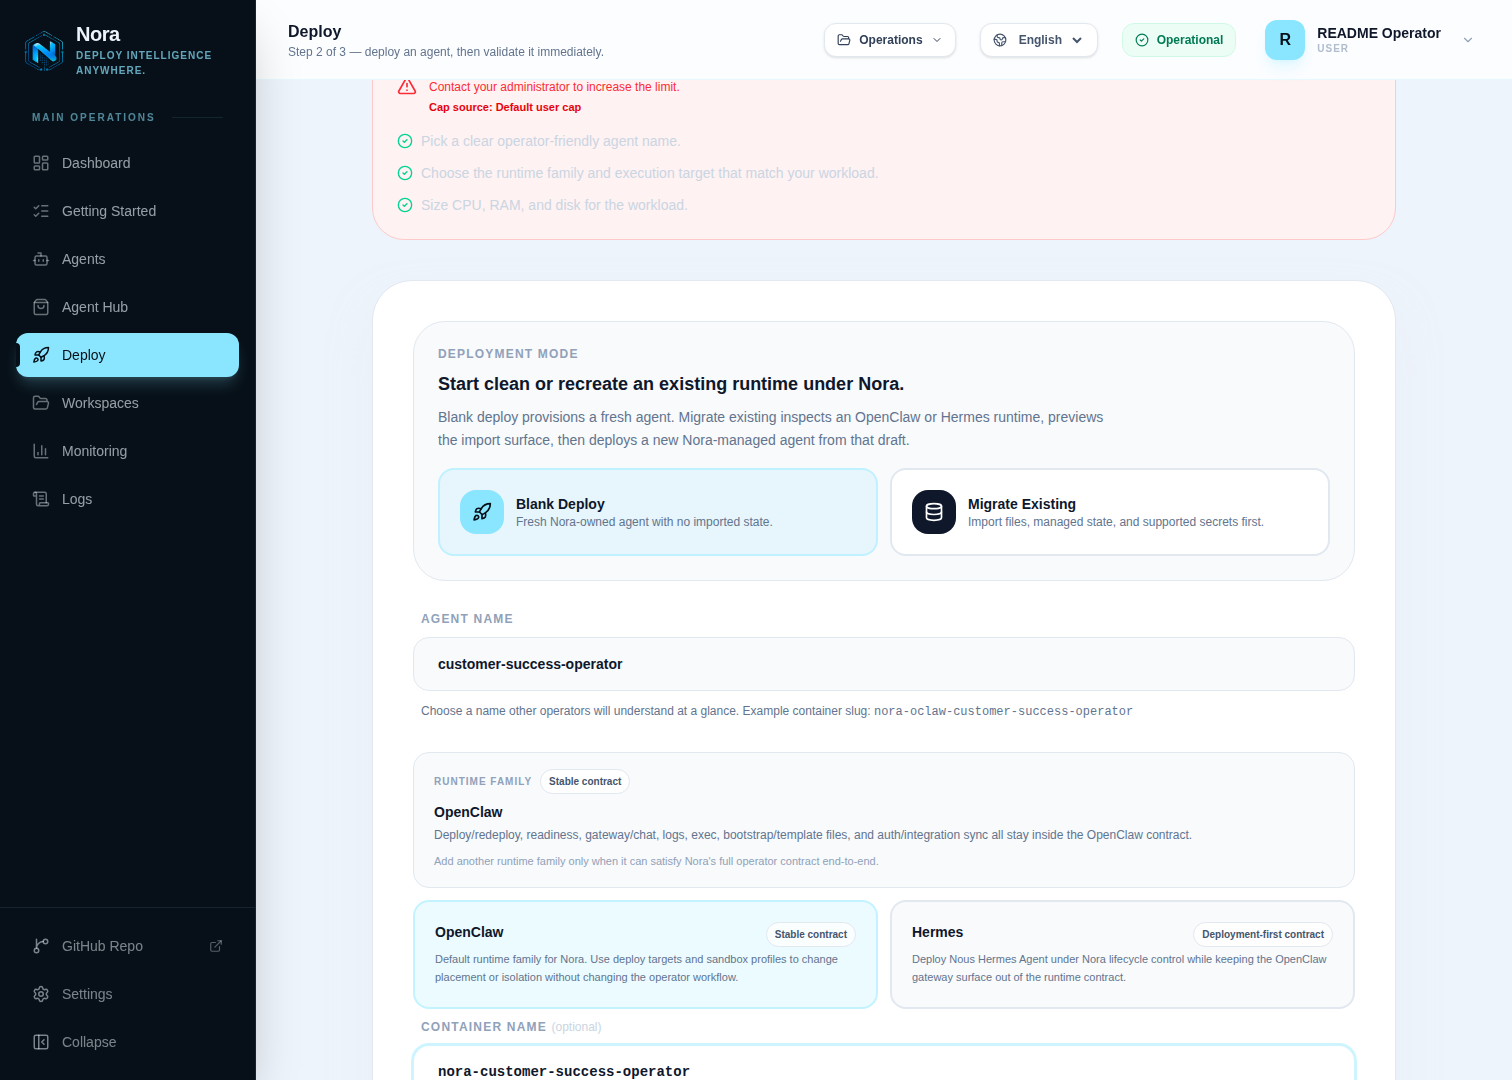
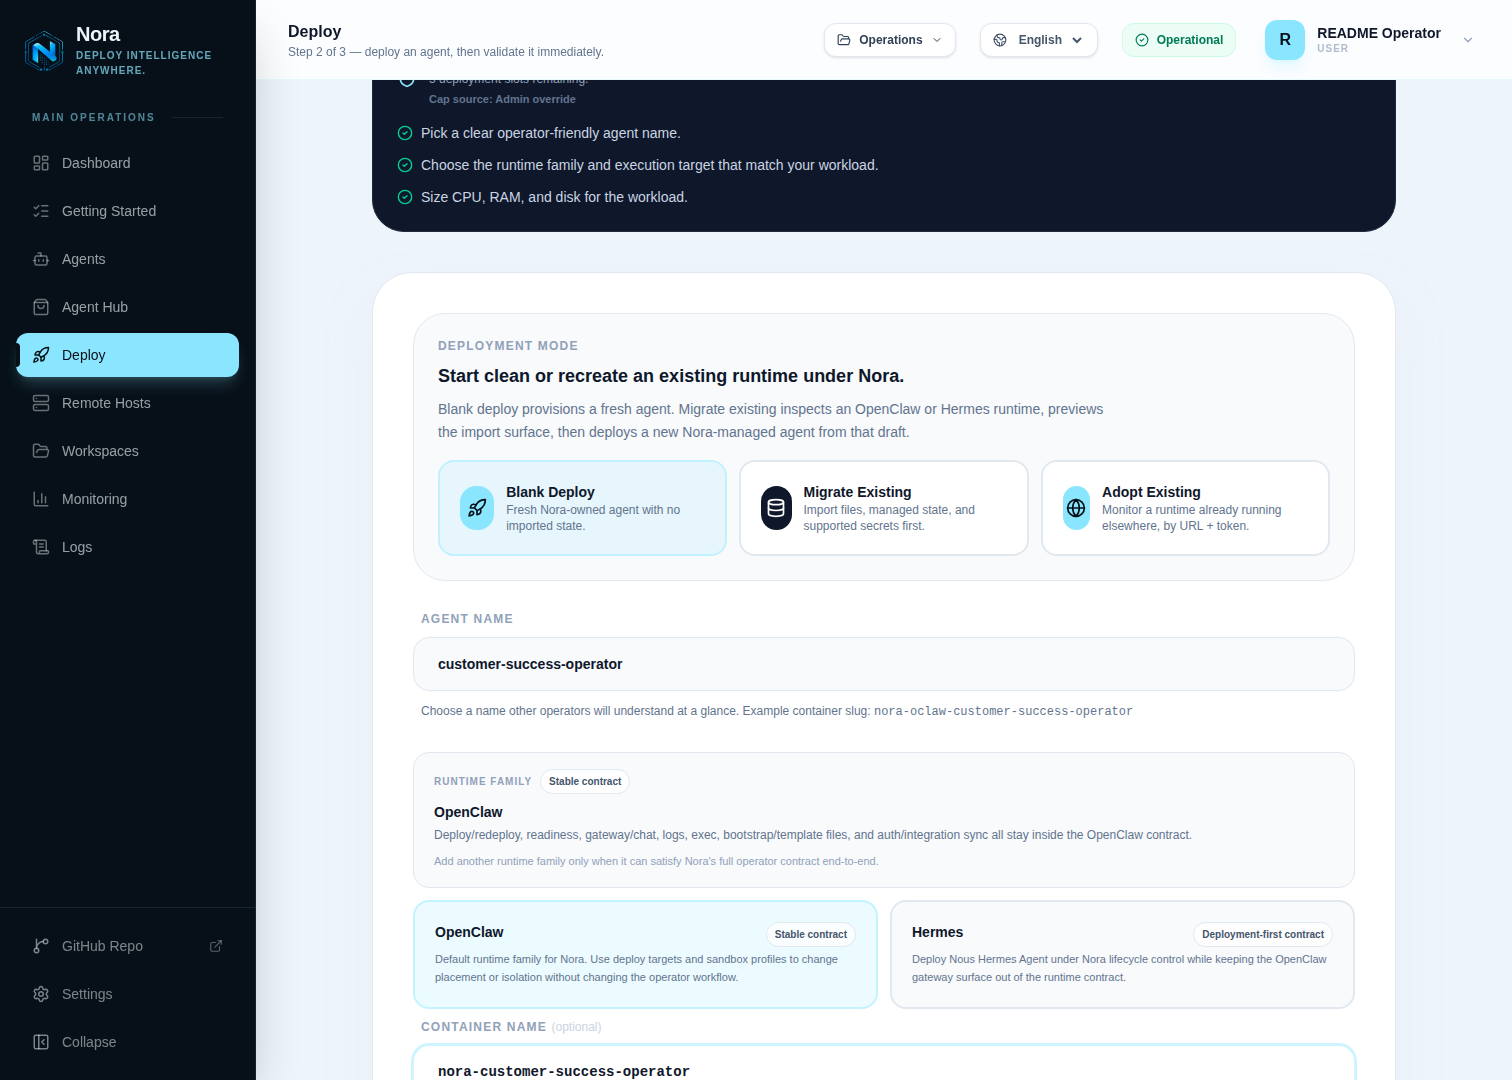
docs: improve first-run conversion proof

diff --git a/README.md b/README.md
@@ -105,6 +105,18 @@ Most teams running agents in production eventually rebuild the same layer around
 curl -fsSL https://raw.githubusercontent.com/solomon2773/nora/master/setup.sh | bash
 ```
 
+<details>
+<summary><strong>Prefer to inspect the installer first?</strong></summary>
+
+```bash
+git clone https://github.com/solomon2773/nora.git
+cd nora
+less setup.sh
+bash setup.sh
+```
+
+</details>
+
 **Windows (PowerShell):**
 
 ```powershell
@@ -122,6 +134,8 @@ helm show chart oci://ghcr.io/solomon2773/nora --version 0.6.0
 The public OCI chart installs the full Nora control plane. See the [Helm instructions](https://noradocs.solomontsao.com/self-hosting#kubernetes-helm) for the required secrets and Ingress options.
 
 The installer verifies prerequisites, generates or preserves secrets, optionally creates a bootstrap admin, picks free local ports when the defaults are busy, and starts the stack. Once it finishes, open the URL printed by setup. Local mode defaults to `http://localhost:8080`, but setup may select another port such as `8081` on a busy workstation. Then follow the [first-15-minutes walkthrough](https://noradocs.solomontsao.com/quickstart).
+
+> **No API key yet?** After signup, choose **Try the demo agent** on the Getting Started page. Nora deploys a working agent against its built-in deterministic demo provider, so you can validate chat and the operator workflow with zero keys and zero cost.
 
 For manual setup, environment variables, public-domain mode, TLS, Kubernetes, NemoClaw, and planned Proxmox configuration, see the docs:
 
